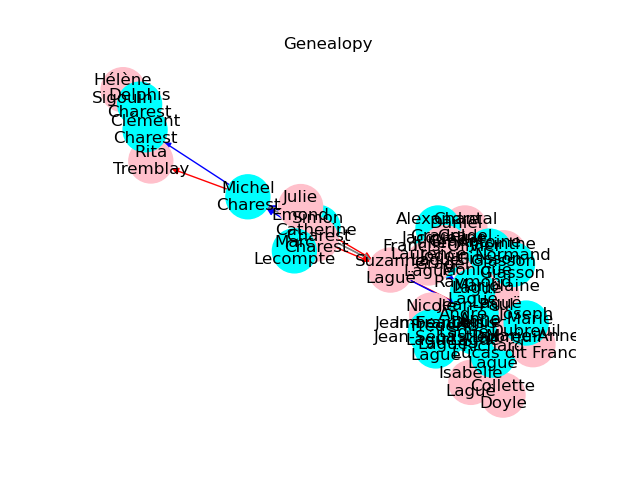
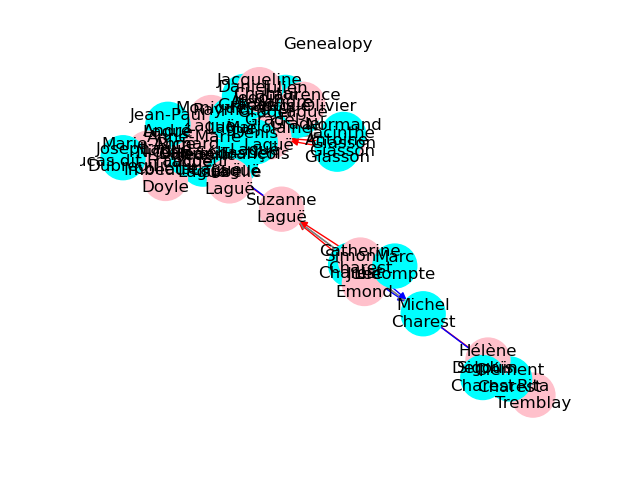
Cleaning data and adding a test app

Changed region(s): [[0.125, 0.125, 0.9062, 0.875]]

diff --git a/genealopy/test.py b/genealopy/test.py
@@ -1,0 +1,79 @@
+import matplotlib.pyplot as plt
+import networkx as nx
+import random
+
+
+def main():
+    G = nx.Graph()
+    G.add_edges_from([(1, 2), (1, 3), (1, 4), (2, 5), (2, 6), (2, 7), (3, 8), (3, 9), (4, 10), (5, 11), (5, 12),
+                      (6, 13)])
+    pos = hierarchy_pos(G, 1)
+    nx.draw(G, pos=pos, with_labels=True)
+    plt.savefig('hierarchy.png')
+
+
+def hierarchy_pos(G, root=None, width=1., vert_gap=0.2, vert_loc=0, xcenter=0.5):
+    """
+    From Joel's answer at https://stackoverflow.com/a/29597209/2966723.
+    Licensed under Creative Commons Attribution-Share Alike
+
+    If the graph is a tree this will return the positions to plot this in a
+    hierarchical layout.
+
+    G: the graph (must be a tree)
+
+    root: the root node of current branch
+    - if the tree is directed and this is not given,
+      the root will be found and used
+    - if the tree is directed and this is given, then
+      the positions will be just for the descendants of this node.
+    - if the tree is undirected and not given,
+      then a random choice will be used.
+
+    width: horizontal space allocated for this branch - avoids overlap with other branches
+
+    vert_gap: gap between levels of hierarchy
+
+    vert_loc: vertical location of root
+
+    xcenter: horizontal location of root
+    """
+
+    if not nx.is_tree(G):
+        raise TypeError('cannot use hierarchy_pos on a graph that is not a tree')
+
+    if root is None:
+        if isinstance(G, nx.DiGraph):
+            root = next(iter(nx.topological_sort(G)))  # allows back compatibility with nx version 1.11
+        else:
+            root = random.choice(list(G.nodes))
+
+    def _hierarchy_pos(G, root, width=1., vert_gap=0.2, vert_loc=0, xcenter=0.5, pos=None, parent=None):
+        """
+        see hierarchy_pos docstring for most arguments
+
+        pos: a dict saying where all nodes go if they have been assigned
+        parent: parent of this branch. - only affects it if non-directed
+        """
+
+        if pos is None:
+            pos = {root: (xcenter, vert_loc)}
+        else:
+            pos[root] = (xcenter, vert_loc)
+        children = list(G.neighbors(root))
+        if not isinstance(G, nx.DiGraph) and parent is not None:
+            children.remove(parent)
+        if len(children) != 0:
+            dx = width/len(children)
+            nextx = xcenter - width/2 - dx/2
+            for child in children:
+                nextx += dx
+                pos = _hierarchy_pos(G,child, width=dx, vert_gap=vert_gap, vert_loc=vert_loc-vert_gap, xcenter=nextx,
+                                     pos=pos, parent=root)
+        return pos
+
+    return _hierarchy_pos(G, root, width, vert_gap, vert_loc, xcenter)
+
+
+if __name__ == '__main__':
+    main()

diff --git a/genealopy/app.py b/genealopy/app.py
@@ -1,9 +1,16 @@
 from common.constant import constant
+
+"""
+Prerequisites:
+    - Microsoft C++ Build Tools - https://visualstudio.microsoft.com/visual-cpp-build-tools/
+    - Graphviz - https://graphviz.gitlab.io/_pages/Download/Download_windows.html
+"""
+from networkx.drawing.nx_agraph import graphviz_layout
+
 import glob
 import json
 import matplotlib.pyplot as pyplot
 import networkx
-# import pygraphviz  # Microsoft Visual C++ 14.0 is required to build pygraphviz._graphviz extension.
 
 
 def run():
@@ -76,13 +83,8 @@ def run():
         print(nodes)
         print(edges)
 
-    # Write dot file to use with graphviz
-    # networkx.nx_agraph.write_dot(graph, 'data/genealopy.dot')
-
     # Set title
     pyplot.title('Genealopy')
-
-    # layout = graphviz_layout(graph, prog='dot')
 
     # Draw graph
     networkx.draw(graph, edge_color=edge_colors, node_color=node_colors, node_size=1000, style=edge_styles,
